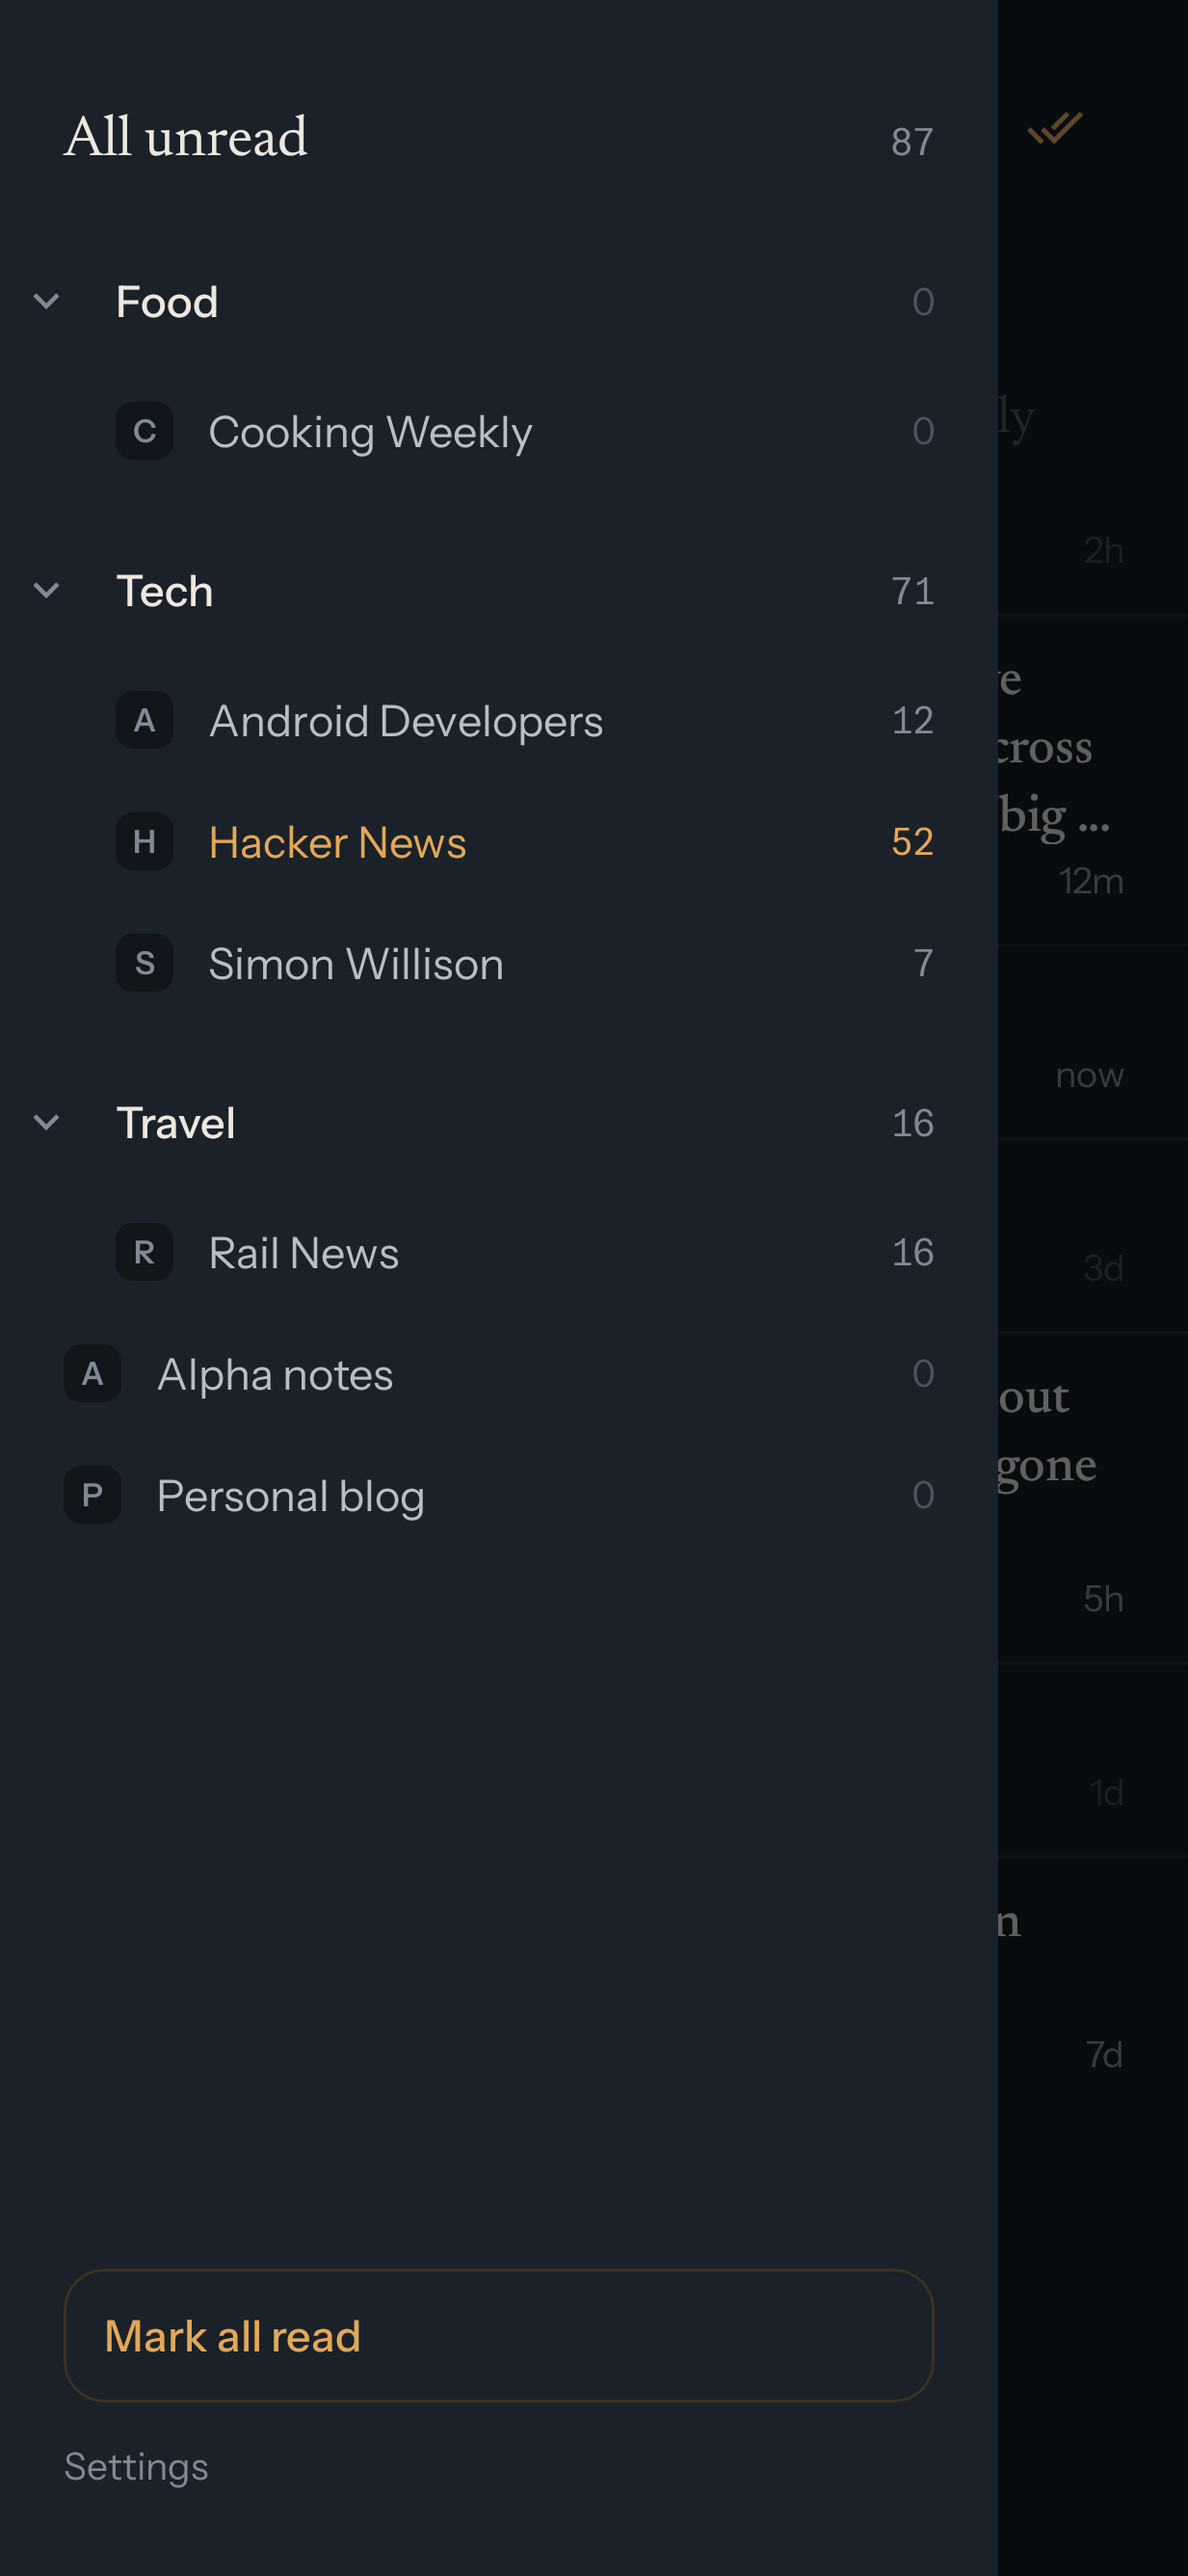
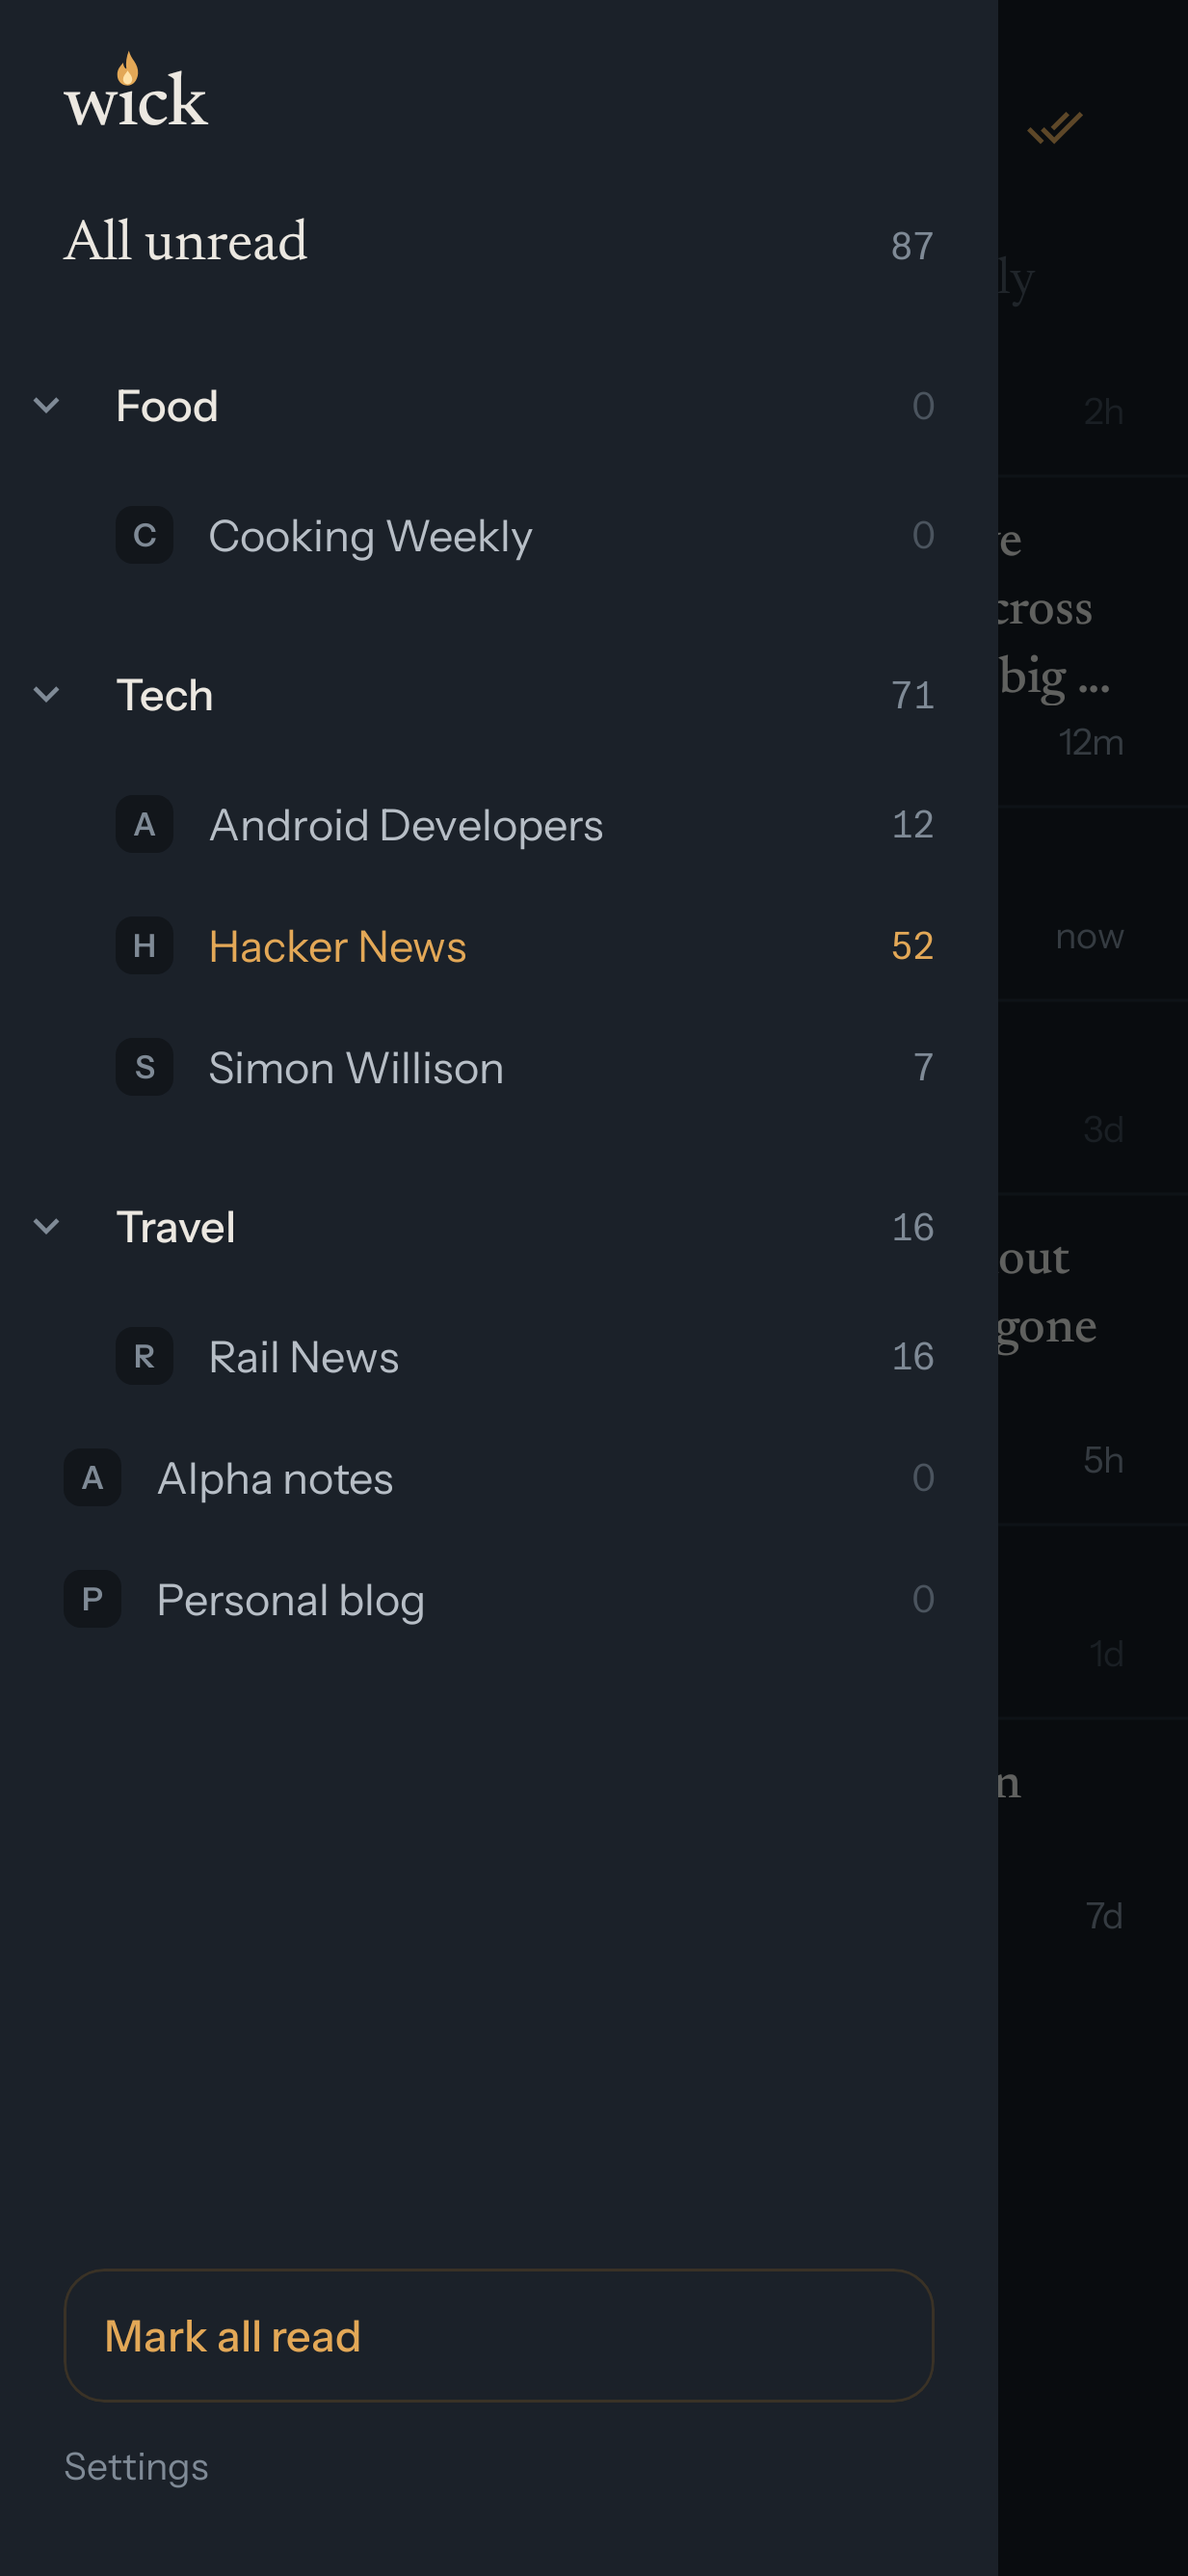
Show the wordmark in the drawer

diff --git a/app/src/main/java/io/github/bardesss/wick/ui/picker/PickerDrawer.kt b/app/src/main/java/io/github/bardesss/wick/ui/picker/PickerDrawer.kt
@@ -54,6 +54,7 @@ import androidx.compose.ui.unit.sp
 import io.github.bardesss.wick.R
 import io.github.bardesss.wick.api.StreamId
 import io.github.bardesss.wick.ui.Favicon
+import io.github.bardesss.wick.ui.Wordmark
 import io.github.bardesss.wick.ui.theme.InstrumentSans
 import io.github.bardesss.wick.ui.theme.Newsreader
 import io.github.bardesss.wick.ui.theme.TapTarget
@@ -61,6 +62,8 @@ import io.github.bardesss.wick.ui.theme.WickColors
 import io.github.bardesss.wick.ui.theme.WickText
 
 private const val DRAWER_WIDTH = 0.84f
+// a little smaller than "All unread" under it, so it does not compete
+private val WordmarkSize = 26.sp
 private val IdleBorder = Color(0xFF3A3226)
 private val ButtonShape = RoundedCornerShape(14.dp)
 private val ChevronGutter = 32.dp
@@ -131,7 +134,11 @@ private fun DrawerBody(
     onToggleFolder: (String) -> Unit,
 ) {
     Column(Modifier.fillMaxSize()) {
-        LazyColumn(Modifier.weight(1f), contentPadding = PaddingValues(top = 28.dp, bottom = 8.dp)) {
+        LazyColumn(Modifier.weight(1f), contentPadding = PaddingValues(top = 24.dp, bottom = 8.dp)) {
+            // the mark scrolls away with a long list, so it never takes room from the feeds
+            item(key = "wordmark", contentType = "wordmark") {
+                Wordmark(Modifier.padding(start = 22.dp, bottom = 14.dp), size = WordmarkSize)
+            }
             items(entries, key = { it.key() }, contentType = { it::class }) { entry ->
                 // the feeds of a folder slide in and out, unless motion is reduced
                 val move = if (animate) Modifier.animateItem() else Modifier

diff --git a/app/src/test/java/io/github/bardesss/wick/ui/picker/PickerDrawerFoldTest.kt b/app/src/test/java/io/github/bardesss/wick/ui/picker/PickerDrawerFoldTest.kt
@@ -4,7 +4,10 @@ import androidx.activity.ComponentActivity
 import androidx.compose.material3.DrawerValue
 import androidx.compose.material3.rememberDrawerState
 import androidx.compose.material3.Text
+import androidx.compose.ui.test.assertCountEquals
+import androidx.compose.ui.test.assertHasNoClickAction
 import androidx.compose.ui.test.junit4.v2.createAndroidComposeRule
+import androidx.compose.ui.test.onAllNodesWithText
 import androidx.compose.ui.test.onNodeWithContentDescription
 import androidx.compose.ui.test.onNodeWithText
 import androidx.compose.ui.test.performClick
@@ -65,5 +68,13 @@ class PickerDrawerFoldTest {
         rule.onNodeWithContentDescription("Expand Tech").performClick()
 
         assertEquals(listOf("Tech"), toggled)
+    }
+
+    @Test
+    fun the_wordmark_is_one_name_and_not_a_control() {
+        show(listOf(PickerEntry.All(3)))
+
+        rule.onNodeWithContentDescription("Wick").assertHasNoClickAction()
+        rule.onAllNodesWithText("wıck").assertCountEquals(0)
     }
 }
